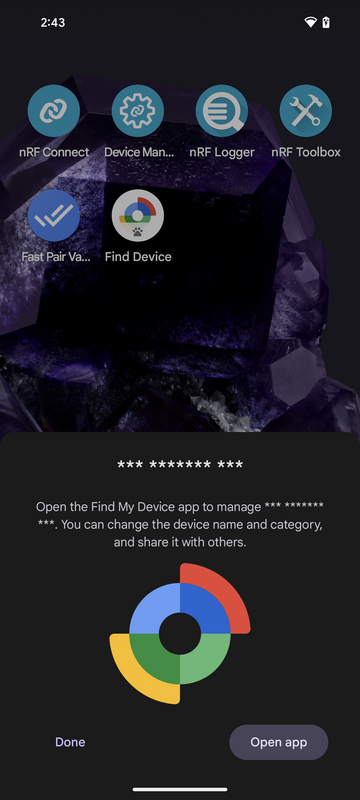
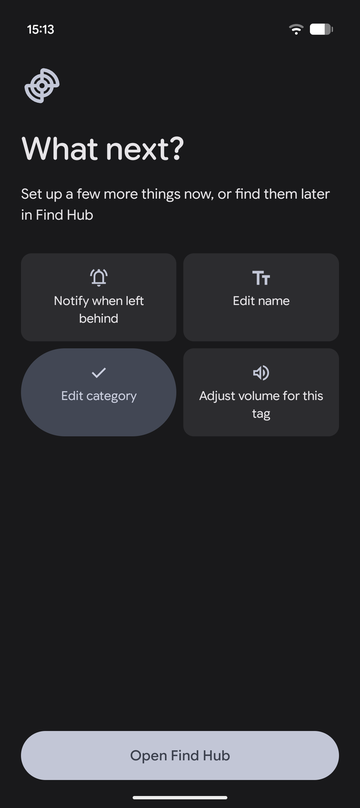
samples: bluetooth: fast_pair: locator_tag: update Find Hub testing steps
Updated the testing steps in the Fast Pair Locator Tag sample
documentation to align them with the new FHN provisioning flow in the
Find Hub app. The Acceptable Use Policy is now accepted on the Use
responsibly screen with the Continue button. The provisioning progress
is displayed on the Adding to Find Hub screen, after which the user
selects a category for the tag. The flow ends with the What next?
screen, which opens the Find Hub app with the Open Find Hub button.

Replaced the outdated screenshots with the ones from the new Find Hub
UI flow and added screenshots for the provisioning progress and the
category selection screens. Renamed the images with the fmd_app infix
to use the find_hub_app infix, as the Find My Device app was renamed
to Find Hub. Scaled all new images to 360x808 pixels to match the
resolution of the replaced images.

Ref: NCSDK-42080

(cherry picked from commit 52840aa711509fc80bdb81bd303480b019e178e2)

diff --git a/samples/bluetooth/fast_pair/locator_tag/README.rst b/samples/bluetooth/fast_pair/locator_tag/README.rst
@@ -784,38 +784,53 @@ Testing
 
          .. figure:: /images/bt_fast_pair_locator_tag_discoverable_notification.png
             :scale: 80 %
-            :alt: Fast Pair discoverable notification with support for the `Find Hub app`_
+            :alt: Fast Pair discoverable notification
 
       #. Initiate the connection and trigger the Fast Pair procedure by tapping the :guilabel:`Connect` button.
-         After the procedure is complete, you will see a pop-up with the Acceptable Use Policy for the `Find Hub app`_.
+         After the procedure is complete, you will see the **Use responsibly** screen with the Acceptable Use Policy for the `Find Hub app`_.
 
          .. note::
             If you use the default debug device model and you have the `nRF Connect Device Manager`_ application installed on your test Android device, you may get the Android notification from this mobile application about the new firmware update.
             You can ignore this notification, as it is not related to the Fast Pair provisioning process.
             To test the notification feature, follow the :ref:`fast_pair_locator_tag_testing_fw_update_notifications` test section.
 
-      #. If you want to start the FHN provisioning, accept the Acceptable Use Policy by tapping the :guilabel:`Agree and continue` button.
+      #. To start FHN provisioning, tap the :guilabel:`Continue` button to accept the Acceptable Use Policy.
 
          .. figure:: /images/bt_fast_pair_locator_tag_acceptable_use_policy.png
             :scale: 80 %
             :alt: The Find Hub Acceptable Use Policy
 
-      #. Wait for the Android device's notification that indicates completion of the provisioning process.
+      #. Wait for the FHN provisioning process to complete.
+         The **Adding to Find Hub...** screen is displayed while the provisioning is in progress.
+
+         .. figure:: /images/bt_fast_pair_locator_tag_provisioning_in_progress.png
+            :scale: 80 %
+            :alt: The Adding to Find Hub screen displayed during the FHN provisioning
+
+      #. In the **Choose a category for your tag** screen, select a category for your locator tag (for example, :guilabel:`Keys`) and tap the :guilabel:`Continue` button.
+
+         .. figure:: /images/bt_fast_pair_locator_tag_category_selection.png
+            :scale: 80 %
+            :alt: The category selection screen for the locator tag
+
+      #. Wait for the **What next?** screen that indicates the completion of the setup process.
+         Optionally, use this screen to configure additional settings for your locator tag, such as its name.
+         You can also change these settings later in the `Find Hub app`_.
 
          .. figure:: /images/bt_fast_pair_locator_tag_provisioning_complete.png
             :scale: 80 %
-            :alt: Notification about provisioning completion for the `Find Hub app`_
+            :alt: The What next screen displayed after the FHN provisioning completion
 
       #. Observe that **LED 3** is lit, which indicates that the device is provisioned as an FHN beacon and the Fast Pair advertising is disabled.
-      #. Open the `Find Hub app`_ by tapping the :guilabel:`Open app` button.
+      #. Open the `Find Hub app`_ by tapping the :guilabel:`Open Find Hub` button.
       #. In your accessory view, tap the :guilabel:`Find nearby` button.
       #. Observe in the Find nearby view that the grey shape shrinks when you move your Android device further away from your locator tag device.
          The shape also grows when you move your Android device closer to the locator tag.
          The closest proximity level is indicated by the device logo displayed inside the grey shape.
 
-         .. figure:: /images/bt_fast_pair_locator_tag_fmd_app_nearby_view.png
+         .. figure:: /images/bt_fast_pair_locator_tag_find_hub_app_nearby_view.png
             :scale: 80 %
-            :alt: Find nearby view of the `Find Hub app`_
+            :alt: Find nearby view of the Find Hub app
 
       #. Start the ringing action on your device by tapping the :guilabel:`Play sound` button.
       #. Observe that **LED 2** is lit, which indicates that the ringing action is in progress.
@@ -832,7 +847,7 @@ Testing
       #. Start the unprovisioning operation by tapping the :guilabel:`Remove from Find Hub` button at the bottom of the screen.
       #. Confirm the operation by tapping the :guilabel:`Remove` button in the **Remove from Find Hub** view.
 
-         .. figure:: /images/bt_fast_pair_locator_tag_fmd_app_unprovision.png
+         .. figure:: /images/bt_fast_pair_locator_tag_find_hub_app_unprovision.png
             :scale: 80 %
             :alt: Remove from Find Hub view
 
@@ -854,38 +869,53 @@ Testing
 
          .. figure:: /images/bt_fast_pair_locator_tag_discoverable_notification.png
             :scale: 80 %
-            :alt: Fast Pair discoverable notification with support for the `Find Hub app`_
+            :alt: Fast Pair discoverable notification
 
       #. Initiate the connection and trigger the Fast Pair procedure by tapping the :guilabel:`Connect` button.
-         After the procedure is complete, you will see a pop-up with the Acceptable Use Policy for the `Find Hub app`_.
+         After the procedure is complete, you will see the **Use responsibly** screen with the Acceptable Use Policy for the `Find Hub app`_.
 
          .. note::
             If you use the default debug device model and you have the `nRF Connect Device Manager`_ application installed on your test Android device, you may get the Android notification from this mobile application about the new firmware update.
             You can ignore this notification, as it is not related to the Fast Pair provisioning process.
             To test the notification feature, follow the :ref:`fast_pair_locator_tag_testing_fw_update_notifications` test section.
 
-      #. If you want to start the FHN provisioning, accept the Acceptable Use Policy by tapping the :guilabel:`Agree and continue` button.
+      #. To start FHN provisioning, tap the :guilabel:`Continue` button to accept the Acceptable Use Policy.
 
          .. figure:: /images/bt_fast_pair_locator_tag_acceptable_use_policy.png
             :scale: 80 %
             :alt: The Find Hub Acceptable Use Policy
 
-      #. Wait for the Android device's notification that indicates completion of the provisioning process.
+      #. Wait for the FHN provisioning process to complete.
+         The **Adding to Find Hub...** screen is displayed while the provisioning is in progress.
+
+         .. figure:: /images/bt_fast_pair_locator_tag_provisioning_in_progress.png
+            :scale: 80 %
+            :alt: The Adding to Find Hub screen displayed during the FHN provisioning
+
+      #. In the **Choose a category for your tag** screen, select a category for your locator tag (for example, :guilabel:`Keys`) and tap the :guilabel:`Continue` button.
+
+         .. figure:: /images/bt_fast_pair_locator_tag_category_selection.png
+            :scale: 80 %
+            :alt: The category selection screen for the locator tag
+
+      #. Wait for the **What next?** screen that indicates the completion of the setup process.
+         Optionally, use this screen to configure additional settings for your locator tag, such as its name.
+         You can also change these settings later in the `Find Hub app`_.
 
          .. figure:: /images/bt_fast_pair_locator_tag_provisioning_complete.png
             :scale: 80 %
-            :alt: Notification about provisioning completion for the `Find Hub app`_
+            :alt: The What next screen displayed after the FHN provisioning completion
 
       #. Observe that **LED 2** is lit, which indicates that the device is provisioned as an FHN beacon and the Fast Pair advertising is disabled.
-      #. Open the `Find Hub app`_ by tapping the :guilabel:`Open app` button.
+      #. Open the `Find Hub app`_ by tapping the :guilabel:`Open Find Hub` button.
       #. In your accessory view, tap the :guilabel:`Find nearby` button.
       #. Observe in the Find nearby view that the grey shape shrinks when you move your Android device further away from your locator tag device.
          The shape also grows when you move your Android device closer to the locator tag.
          The closest proximity level is indicated by the device logo displayed inside the grey shape.
 
-         .. figure:: /images/bt_fast_pair_locator_tag_fmd_app_nearby_view.png
+         .. figure:: /images/bt_fast_pair_locator_tag_find_hub_app_nearby_view.png
             :scale: 80 %
-            :alt: Find nearby view of the `Find Hub app`_
+            :alt: Find nearby view of the Find Hub app
 
          .. note::
             If the :ref:`ug_bt_fast_pair_fhn_pf` is enabled for the chosen board target and you use the Android test device with the Bluetooth Low Energy CS support, the Find nearby view may also display the estimated distance from the locator tag in meters.
@@ -906,7 +936,7 @@ Testing
       #. Start the unprovisioning operation by tapping the :guilabel:`Remove from Find Hub` button at the bottom of the screen.
       #. Confirm the operation by tapping the :guilabel:`Remove` button in the **Remove from Find Hub** view.
 
-         .. figure:: /images/bt_fast_pair_locator_tag_fmd_app_unprovision.png
+         .. figure:: /images/bt_fast_pair_locator_tag_find_hub_app_unprovision.png
             :scale: 80 %
             :alt: Remove from Find Hub view
 
@@ -945,7 +975,7 @@ To test this feature, complete the following steps:
       Ranging: pairing completed (bonded) with ...
 
 #. Observe that **LED 2** is lit, which indicates that the device is provisioned as an FHN beacon.
-#. Open the `Find Hub app`_ by tapping the :guilabel:`Open app` button.
+#. Open the `Find Hub app`_ by tapping the :guilabel:`Open Find Hub` button.
 #. In your accessory view, tap the :guilabel:`Find nearby` button.
 #. Wait for the Bluetooth Low Energy CS ranging session to be established.
    In the terminal, observe the log messages confirming that the ranging capability exchange and configuration have been completed.
